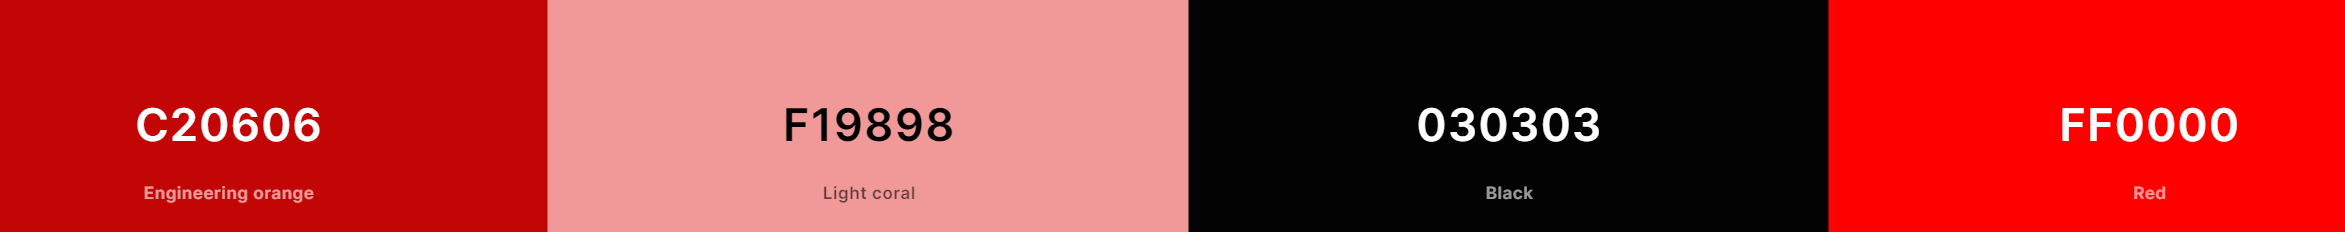
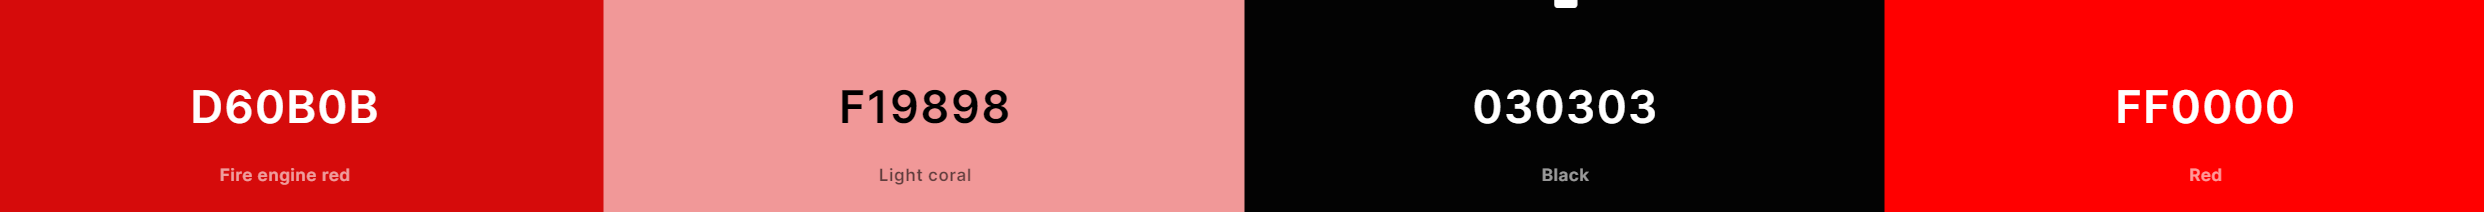
Change color palette in documentation and change color of header and footer in css to improve user readability

diff --git a/assets/css/style.css b/assets/css/style.css
@@ -13,7 +13,7 @@ body {
 
 /* Header */
 header {
-    background-color: #c20606;
+    background-color: #d60b0b;
     text-align: center;
     padding: 40px;
 }
@@ -67,7 +67,7 @@ button {
 
 /*Changes shade of button when hovered over*/
 button:hover {
-    background-color: #a70000;
+    background-color: #d60b0b;
 }
 
 /*Hides anything with class of .hidden from user's view*/
@@ -82,7 +82,7 @@ button:hover {
 }
 
 footer {
-    background-color: #c20606;
+    background-color: #d60b0b;
     text-align: center;
     padding: 20px;
     box-shadow: 0 15px 15px #030303;

diff --git a/index.html b/index.html
@@ -83,8 +83,8 @@
                 </li>
             </ul>
             <!-- p section outlining copyright -->
-            <p class="copyright">&copy; 2024 Love Struck! All rights reserved. Follow us on social media for more fun
-                quizes!</p>
+            <p class="copyright"><b>&copy; 2024 Love Struck! All rights reserved. Follow us on social media for more fun
+                quizes!</b></p>
         </section>
     </footer>
     <!--Font Awesome kit-->

diff --git a/README.md b/README.md
@@ -82,7 +82,7 @@ If the user clicks the "Instructions" button they are directed to a new screen w
 
 All colors chosen have warm red and pink tones to embrace the mood of Valentine's Day. These colors also complimented the image used as the main background depicting hearts.
 
-- #C20606 was used for the color of the header and footer. This color was chosen as it is a deep red which has always been associated with Valentine's Day. This also worked well with the contrast of the black color of the font enabling the player to read the text with ease.
+- #d60b0b was used for the color of the header and footer. This color was chosen as it is a deep red which has always been associated with Valentine's Day. This also worked well with the contrast of the black color of the font enabling the player to read the text with ease.
 
 - #F19898 was used for the container on each page which displays the welcome message, instructions, questions and answers and the quiz completed page. This is a subtle pink color that compliments the deep red header, footer and background image. This color also ties in with the Valentine's Day theme and it works well with the black font used enabling the player to read the questions and answers with ease. This color was also used for the icons in the footer when the cursor is hovered over them.
 
@@ -139,6 +139,7 @@ All colors chosen have warm red and pink tones to embrace the mood of Valentine'
 ## Lighthouse report
 
 - Using lighthouse in devtools I confirmed that the website is performing well, accessible and the colors and fonts chosen are readable.
+![Lighthouse Report](documentation/lighthouse_report.png)
     
 
 ## Manual testing
